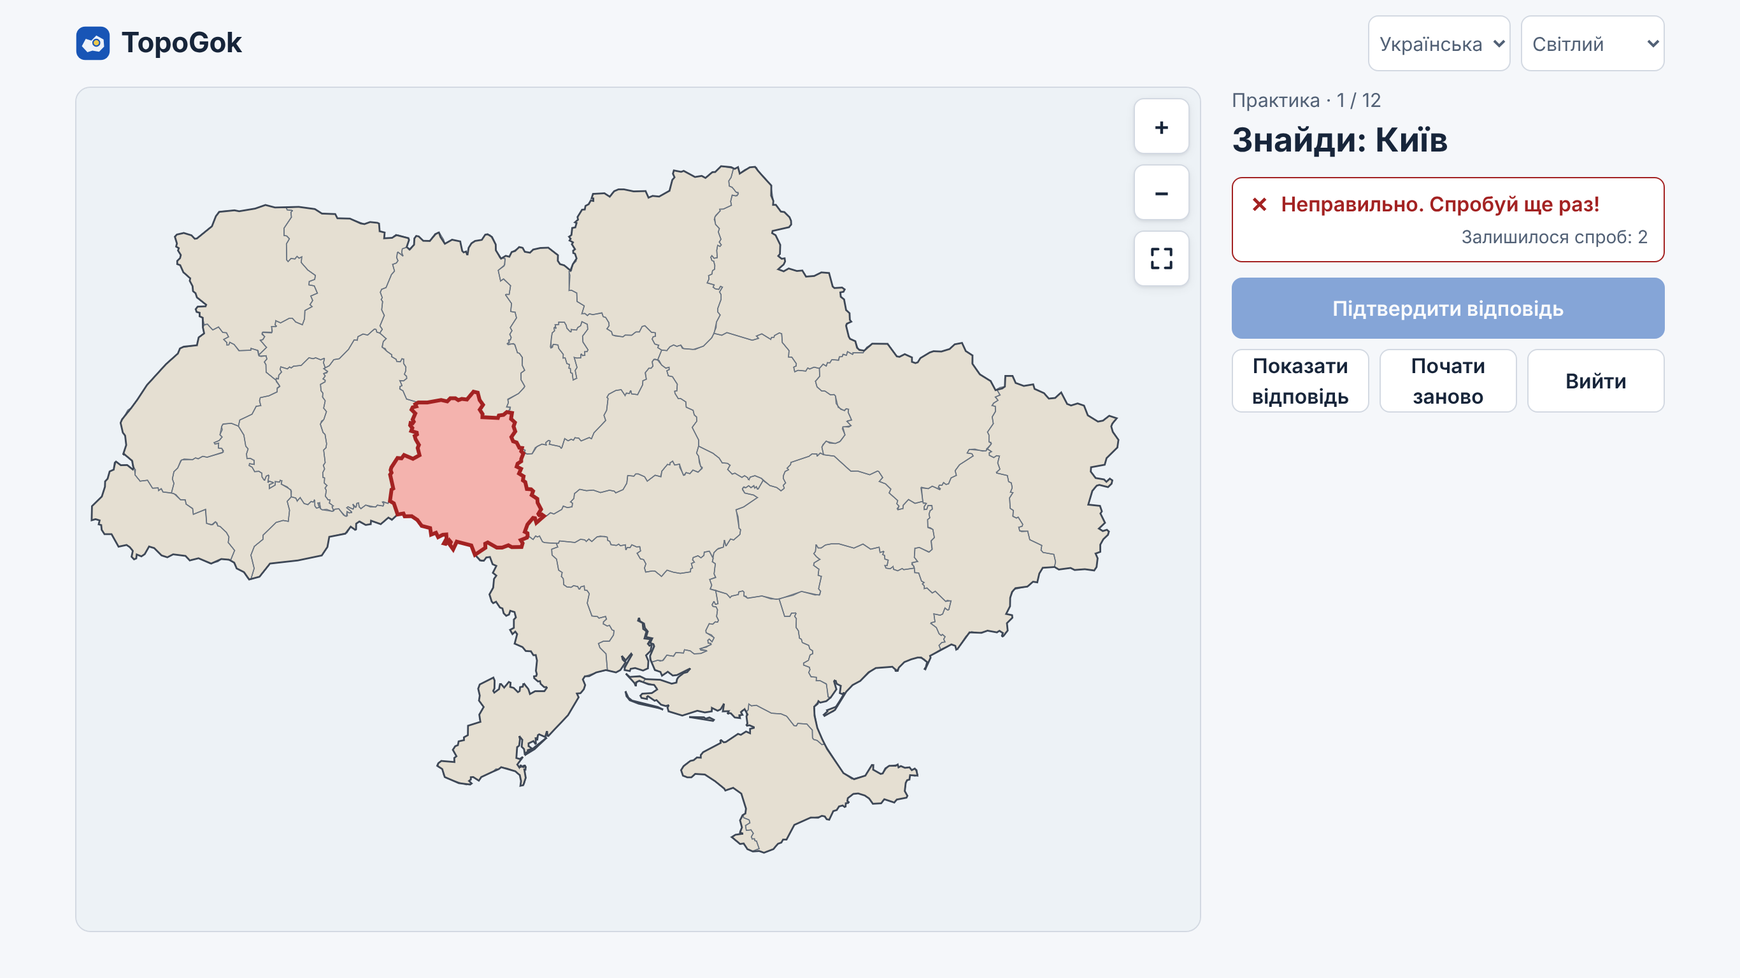
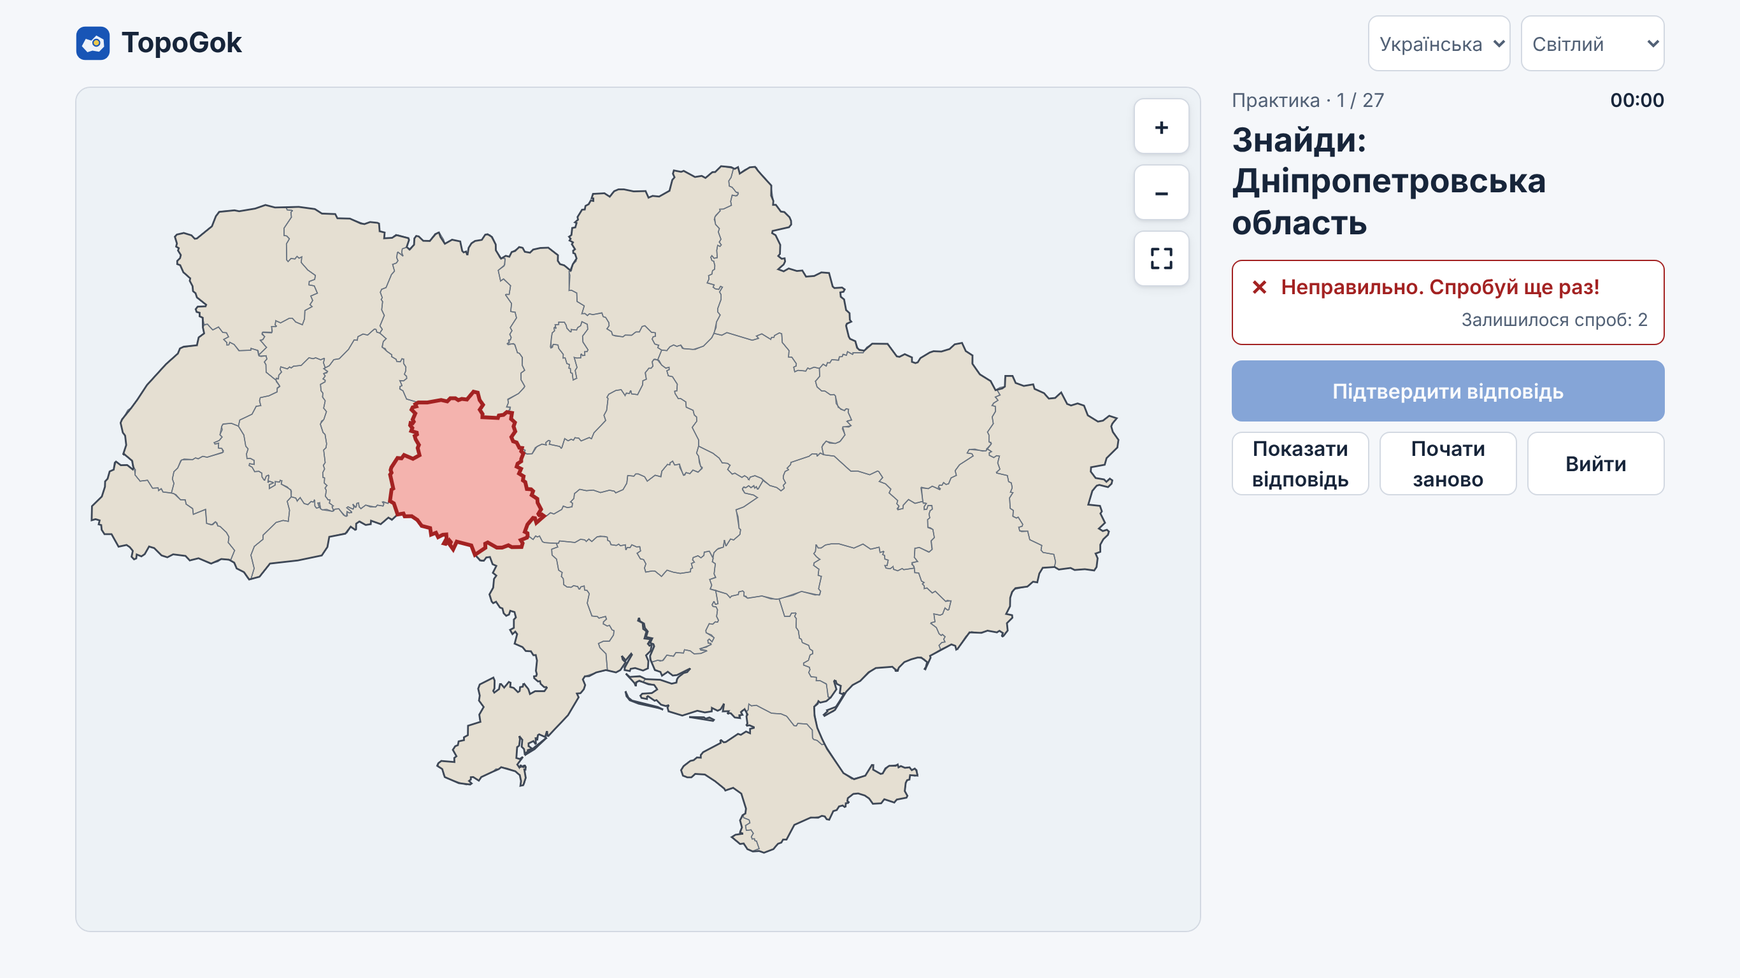
F4.5: practice starts at once; no time limit for assessments
- practice: no setup screen, all allowed features, elapsed time always shown
- assessment setup: question count only, no time limit
- domain and server keep supporting limits for old rounds
- E2E updated (11-unit mixed practice round, no-limit assessment check),
  screenshots refreshed, docs

Claude-Session: https://claude.ai/code/session_01S7DiZfqfFbseDq5vDu4yvB

diff --git a/tests/e2e/game.spec.ts b/tests/e2e/game.spec.ts
@@ -1,8 +1,10 @@
 import { clickNext, confirmBtn, openTopic, currentTargetId, E2E, expect, mapReady, nextBtn, otherId, selectRegion, start, test } from './helpers.ts';
 
 test.describe('practice', () => {
-  test('T02–T05 mixed 5-question round: feedback, hidden answer, reveal, single review, 360/500', async ({ page }) => {
-    await start(page, E2E, 'practice', '5');
+  test('T02–T05 mixed round (11 tectonic units, F4.5: starts at once, elapsed time shown): feedback, hidden answer, reveal, single review, 960/1100', async ({ page }) => {
+    await start(page, E2E, 'practice', 'all', 'tectonics');
+    await expect(page.locator('main')).toContainText('Gyakorlás · 1 / 11');
+    await expect(page.getByRole('timer')).toBeVisible();
     const status = page.getByTestId('status');
     await expect(status).toContainText('Válassz egy területet');
     await expect(status).toContainText('Hátralévő próbálkozás: 3');
@@ -47,6 +49,15 @@ test.describe('practice', () => {
     await expect(nextBtn(page)).toHaveText('Következő');
     await clickNext(page);
 
+    // Q6–Q11 correct first try
+    for (let i = 0; i < 6; i++) {
+      id = await currentTargetId(page);
+      await selectRegion(page, id);
+      await confirmBtn(page).click();
+      await expect(status).toContainText('Helyes!');
+      await clickNext(page);
+    }
+
     // Review: 2 unique tasks, header says so; fail one completely, solve the other
     await expect(page.locator('main')).toContainText('Hibák ismétlése • 1 / 2');
     await expect(page.locator('main')).toContainText('Az eredeti pontszám nem változik.');
@@ -68,23 +79,23 @@ test.describe('practice', () => {
     await clickNext(page);
 
     await expect(page.getByTestId('result')).toBeVisible();
-    await expect(page.getByTestId('correct')).toHaveText('3 / 5');
-    await expect(page.getByTestId('percent')).toHaveText('60%');
-    await expect(page.getByTestId('points')).toHaveText('360 / 500');
+    await expect(page.getByTestId('correct')).toHaveText('9 / 11');
+    await expect(page.getByTestId('percent')).toHaveText('81,8%');
+    await expect(page.getByTestId('points')).toHaveText('960 / 1100');
     await expect(page.locator('main')).not.toContainText('Jegy');
   });
 
   test('double-clicking "confirm" does not skip the feedback', async ({ page }) => {
-    await start(page, E2E, 'practice', '5');
+    await start(page, E2E, 'practice');
     const id = await currentTargetId(page);
     await selectRegion(page, id);
     await confirmBtn(page).dblclick();
     await expect(page.getByTestId('status')).toContainText('Helyes!');
-    await expect(page.locator('main')).toContainText('Gyakorlás · 1 / 5');
+    await expect(page.locator('main')).toContainText('Gyakorlás · 1 / 27');
   });
 
   test('T13 all 27 regions selectable in a round; Kyiv and Sevastopol after zooming in; 2700/2700', async ({ page }) => {
-    await start(page, E2E, 'practice', 'all');
+    await start(page, E2E, 'practice');
     const seen = new Set<string>();
     for (let i = 0; i < 27; i++) {
       const id = await currentTargetId(page);
@@ -142,32 +153,22 @@ test.describe('assessment', () => {
     await expect(page.getByTestId('grade')).toHaveText('12 / 12-es jegy');
   });
 
-  test('T08/T10 5-minute limit with a selected but unconfirmed answer: timeout after background, N stays 5', async ({ page }) => {
-    await page.clock.install();
-    await start(page, E2E, 'assessment', '5', '5 perc');
-    await expect(page.getByRole('timer')).toHaveText(/0[45]:\d\d/);
-    for (let i = 0; i < 2; i++) {
-      const id = await currentTargetId(page);
-      await selectRegion(page, id);
-      await confirmBtn(page).click();
-    }
-    const id = await currentTargetId(page);
-    await selectRegion(page, id); // selected, never confirmed
-    // Simulate the tab being hidden while time passes, then coming back.
-    await page.evaluate(() => { Object.defineProperty(document, 'visibilityState', { value: 'hidden', configurable: true }); document.dispatchEvent(new Event('visibilitychange')); });
-    await page.clock.fastForward('06:00');
-    await page.evaluate(() => { Object.defineProperty(document, 'visibilityState', { value: 'visible', configurable: true }); document.dispatchEvent(new Event('visibilitychange')); });
-    await expect(page.getByTestId('result')).toBeVisible();
-    await expect(page.locator('main')).toContainText('Lejárt az idő.');
-    await expect(page.getByTestId('correct')).toHaveText('2 / 5');
-    await expect(page.getByTestId('duration')).toHaveText('05:00');
-    await expect(page.getByTestId('grade')).toHaveText('5 / 12-es jegy');
+  test('F4.5: the assessment setup offers question counts but no time limit; the round has no countdown', async ({ page }) => {
+    await openTopic(page, E2E);
+    await page.getByRole('button', { name: /^Számonkérés/ }).click();
+    await expect(page.locator('main')).not.toContainText('Időkorlát');
+    await expect(page.locator('fieldset').first().locator('label')).toHaveText(['5', '12', 'Mindegyik (27)']);
+    await page.locator('label', { hasText: /^5$/ }).click();
+    await page.getByRole('button', { name: 'Indítás' }).click();
+    await mapReady(page);
+    await expect(page.locator('main')).toContainText('Számonkérés · 1 / 5');
+    await expect(page.getByRole('timer')).toHaveCount(0);
   });
 });
 
 test.describe('round controls', () => {
   test('T11/T16 restart and exit dialogs; language and theme switch keep the round; reload returns home with nothing stored', async ({ page }) => {
-    await start(page, E2E, 'practice', '12');
+    await start(page, E2E, 'practice');
     const q1 = await currentTargetId(page);
     const wrong = otherId(q1);
     await selectRegion(page, wrong);
@@ -180,7 +181,7 @@ test.describe('round controls', () => {
     await page.getByLabel('Вигляд', { exact: true }).selectOption('dark');
     await expect(page.locator('html')).toHaveAttribute('data-theme', 'dark');
     expect(await currentTargetId(page)).toBe(q1);
-    await expect(page.locator('main')).toContainText('Практика · 1 / 12');
+    await expect(page.locator('main')).toContainText('Практика · 1 / 27');
     await expect(page.getByTestId('status')).toContainText('Залишилося спроб: 2');
 
     // Restart: cancel keeps everything (Escape = safe choice)
@@ -197,7 +198,7 @@ test.describe('round controls', () => {
     await page.getByRole('button', { name: 'Почати заново' }).click();
     await page.getByRole('dialog').getByRole('button', { name: 'Нове коло' }).click();
     await mapReady(page);
-    await expect(page.locator('main')).toContainText('Практика · 1 / 12');
+    await expect(page.locator('main')).toContainText('Практика · 1 / 27');
     await expect(page.getByTestId('status')).toContainText('Залишилося спроб: 3');
 
     // Reload: home, only the preference key in storage
@@ -215,7 +216,7 @@ test.describe('round controls', () => {
     expect(JSON.parse(await page.evaluate(() => localStorage.getItem('topogok.preferences.v1')!))).toEqual({ theme: 'dark', locale: 'uk' });
 
     // Exit with confirmation
-    await start(page, E2E, 'practice', '5');
+    await start(page, E2E, 'practice');
     await page.getByRole('button', { name: 'Вийти' }).click();
     await page.getByRole('dialog').getByRole('button', { name: 'Вийти' }).click();
     await expect(page.locator('#question')).toHaveCount(0);
@@ -223,14 +224,14 @@ test.describe('round controls', () => {
 });
 
 test.describe('tectonics topic', () => {
-  test('practice: only 5/all offered, grey background land is not an answer, all 11 units selectable (1100/1100)', async ({ page }) => {
+  test('assessment offers only 5/all; practice starts at once: grey background land is not an answer, all 11 units selectable (1100/1100)', async ({ page }) => {
     await openTopic(page, E2E, 'tectonics');
     await expect(page.locator('h1')).toHaveText('Ukrajna tektonikai szerkezete');
-    await page.getByRole('button', { name: /^Gyakorlás/ }).click();
+    await page.getByRole('button', { name: /^Számonkérés/ }).click();
     await expect(page.locator('label', { hasText: /^12$/ })).toHaveCount(0);
     await expect(page.locator('label', { hasText: 'Mindegyik (11)' })).toBeVisible();
-    await page.locator('label', { hasText: 'Mindegyik (11)' }).click();
-    await page.getByRole('button', { name: 'Indítás' }).click();
+    await page.getByRole('button', { name: 'Vissza' }).click();
+    await page.getByRole('button', { name: /^Gyakorlás/ }).click();
     await mapReady(page);
     await expect(page.locator('main')).toContainText('A szürke területek nem tartoznak a kérdezett egységekhez.');
 
@@ -263,7 +264,7 @@ test.describe('tectonics topic', () => {
 
   test('assessment: 4/5 → 80%, grade 10, in Ukrainian', async ({ page }) => {
     await page.addInitScript(() => localStorage.setItem('topogok.preferences.v1', JSON.stringify({ locale: 'uk', theme: 'light' })));
-    await start(page, E2E, 'assessment', '5', undefined, 'tectonics');
+    await start(page, E2E, 'assessment', '5', 'tectonics');
     for (let i = 0; i < 5; i++) {
       const id = await currentTargetId(page);
       await selectRegion(page, i === 0 ? otherId(id) : id);
@@ -282,9 +283,6 @@ test.describe('continents topic', () => {
     await openTopic(page, E2E, 'world');
     await expect(page.locator('h1')).toHaveText('Kontinensek topója');
     await page.getByRole('button', { name: /^Gyakorlás/ }).click();
-    await expect(page.locator('label', { hasText: /^12$/ })).toHaveCount(0);
-    await page.locator('label', { hasText: 'Mindegyik (11)' }).click();
-    await page.getByRole('button', { name: 'Indítás' }).click();
     await mapReady(page);
     await expect(page.locator('main')).toContainText('A szürke területek nem tartoznak a kérdezett egységekhez.');
 
@@ -320,7 +318,7 @@ test.describe('continents topic', () => {
 
   test('assessment in Ukrainian: 4/5 → 80%, grade 10', async ({ page }) => {
     await page.addInitScript(() => localStorage.setItem('topogok.preferences.v1', JSON.stringify({ locale: 'uk', theme: 'dark' })));
-    await start(page, E2E, 'assessment', '5', undefined, 'world');
+    await start(page, E2E, 'assessment', '5', 'world');
     for (let i = 0; i < 5; i++) {
       const id = await currentTargetId(page);
       await selectRegion(page, i === 0 ? otherId(id) : id);

diff --git a/src/features/setup/SetupScreen.tsx b/src/features/setup/SetupScreen.tsx
@@ -3,13 +3,13 @@ import { useTopicAccess } from '../../account/topicAccess.ts';
 import { countOptions } from '../../domain/questionCounts.ts';
 import { useSettings } from '../../app/settings.tsx';
 import { Button, ChoiceGroup } from '../../components/ui.tsx';
-import { DEFAULT_COUNT, TIME_LIMITS, validateConfig } from '../../domain/config.ts';
+import { DEFAULT_COUNT, validateConfig } from '../../domain/config.ts';
 import type { TopicEntry } from '../../data/topicRegistry.ts';
-import type { AssessmentConfiguration, GameConfiguration, Mode, PracticeConfiguration, QuestionCount, TimeLimitMinutes } from '../../domain/types.ts';
+import type { AssessmentConfiguration, GameConfiguration, Mode, QuestionCount } from '../../domain/types.ts';
 import type { Topic } from '../../data/validation.ts';
 import s from '../../app/app.module.css';
 
-export function SetupScreen({ mode, topic, entry, initial, onStart, onBack }: {
+export function SetupScreen({ topic, entry, initial, onStart, onBack }: {
   mode: Mode; topic: Topic; entry: TopicEntry; initial: GameConfiguration | undefined; onStart: (c: GameConfiguration) => void; onBack: () => void;
 }) {
   const { t, locale } = useSettings();
@@ -18,20 +18,17 @@ export function SetupScreen({ mode, topic, entry, initial, onStart, onBack }: {
   const counts = countOptions(entry.counts, total);
   const pick = (c: QuestionCount | undefined): QuestionCount => (c !== undefined && counts.includes(c) ? c : counts.includes(DEFAULT_COUNT) ? DEFAULT_COUNT : 'all');
   const [count, setCount] = useState<QuestionCount>(() => pick(initial?.count));
-  const [showElapsed, setShowElapsed] = useState(initial?.mode === 'practice' ? initial.showElapsed : false);
-  const [limit, setLimit] = useState<TimeLimitMinutes>(initial?.mode === 'assessment' ? initial.timeLimitMinutes : null);
 
   const start = () => {
-    const raw: PracticeConfiguration | AssessmentConfiguration = mode === 'practice'
-      ? { mode, topicId: topic.manifest.id, count, showElapsed }
-      : { mode, topicId: topic.manifest.id, count, timeLimitMinutes: limit };
+    // F4.5: only the assessment has a setup screen, and it has no time limit.
+    const raw: AssessmentConfiguration = { mode: 'assessment', topicId: topic.manifest.id, count, timeLimitMinutes: null };
     const valid = validateConfig(raw);
     if (valid) onStart(valid);
   };
 
   return (
     <div className={s.page}>
-      <h1>{mode === 'practice' ? t('setup.titlePractice') : t('setup.titleAssessment')}</h1>
+      <h1>{t('setup.titleAssessment')}</h1>
       <form className={s.form} onSubmit={(e) => { e.preventDefault(); start(); }}>
         <div>
           <p className={s.topicLine}>{t('setup.topic')}</p>
@@ -40,18 +37,9 @@ export function SetupScreen({ mode, topic, entry, initial, onStart, onBack }: {
         </div>
         <ChoiceGroup legend={t('setup.count')} name="count" value={count} onChange={setCount}
           options={counts.map((c) => ({ value: c, label: c === 'all' ? t('setup.all', { count: total }) : String(c) }))} />
-        {mode === 'practice' ? (
-          <label className={s.toggle}>
-            <input type="checkbox" checked={showElapsed} onChange={(e) => setShowElapsed(e.target.checked)} />
-            <span>{t('setup.showElapsed')}</span>
-          </label>
-        ) : (
-          <ChoiceGroup legend={t('setup.timeLimit')} name="limit" value={limit} onChange={setLimit}
-            options={TIME_LIMITS.map((m) => ({ value: m, label: m === null ? t('setup.noLimit') : t('setup.minutes', { count: m }) }))} />
-        )}
         <section>
           <h2 className="visually-hidden">{t('setup.rulesTitle')}</h2>
-          <p className={s.rules}>{mode === 'practice' ? t('setup.rulesPractice') : t('setup.rulesAssessment')}</p>
+          <p className={s.rules}>{t('setup.rulesAssessment')}</p>
         </section>
         <div className={s.actions}>
           <Button type="submit" variant="primary">{t('setup.start')}</Button>

diff --git a/tests/e2e/visual.spec.ts b/tests/e2e/visual.spec.ts
@@ -59,7 +59,7 @@ for (const locale of ['hu', 'uk'] as const) {
       await shot(page, `${tag}-01-home`);
 
       // practice: wrong answer feedback, then the right answer
-      await start(page, E2E, 'practice', '5');
+      await start(page, E2E, 'practice');
       await dismissBanner(page);
       const id = await currentTargetId(page);
       await selectRegion(page, otherId(id));
@@ -77,7 +77,7 @@ for (const locale of ['hu', 'uk'] as const) {
       await shot(page, `${tag}-04-kyiv-zoomed`);
 
       // assessment with timer, a neutral selection, then results
-      await start(page, E2E, 'assessment', '5', locale === 'hu' ? '10 perc' : '10 хв');
+      await start(page, E2E, 'assessment', '5');
       const a = await currentTargetId(page);
       await selectRegion(page, a);
       await checkLayout(page);
@@ -108,7 +108,7 @@ for (const sz of sizes) {
     await page.goto(E2E);
     await checkLayout(page);
     await shot(page, `${sz.name}-01-home`);
-    await start(page, E2E, 'practice', '12');
+    await start(page, E2E, 'practice');
     await dismissBanner(page);
     await controlsClear(page);
     const id = await currentTargetId(page);
@@ -141,7 +141,7 @@ test('explore + help screenshots; no About page', async ({ page }) => {
 test('tectonics screenshots hu-light and uk-dark', async ({ page }) => {
   for (const [locale, theme] of [['hu', 'light'], ['uk', 'dark']] as const) {
     await prefs(page, locale, theme);
-    await start(page, E2E, 'practice', '5', undefined, 'tectonics');
+    await start(page, E2E, 'practice', 'all', 'tectonics');
     await dismissBanner(page);
     const id = await currentTargetId(page);
     await selectRegion(page, otherId(id));
@@ -161,7 +161,7 @@ test('tectonics screenshots hu-light and uk-dark', async ({ page }) => {
 test('continents screenshots: desktop hu-light practice + uk-dark explore, phone explore', async ({ page }) => {
   await page.setViewportSize({ width: 1366, height: 768 });
   await prefs(page, 'hu', 'light');
-  await start(page, E2E, 'practice', '5', undefined, 'world');
+  await start(page, E2E, 'practice', 'all', 'world');
   await dismissBanner(page);
   const id = await currentTargetId(page);
   await selectRegion(page, otherId(id));

diff --git a/tests/e2e/helpers.ts b/tests/e2e/helpers.ts
@@ -107,12 +107,14 @@ export async function selectRegion(page: Page, id: string) {
   await clickRegion(page, id);
 }
 
-export async function start(page: Page, base: string, mode: 'practice' | 'assessment', count: '5' | '12' | 'all', limit?: string, topic: TopicKey = 'admin') {
+/** Practice starts at once with every feature (F4.5); only the assessment has a setup screen (count, no time limit). */
+export async function start(page: Page, base: string, mode: 'practice' | 'assessment', count: '5' | '12' | 'all' = 'all', topic: TopicKey = 'admin') {
   await openTopic(page, base, topic);
   await page.locator('button', { hasText: mode === 'practice' ? /^Gyakorlás|^Практика/ : /^Számonkérés|^Перевірка знань/ }).first().click();
-  await page.locator('label', { hasText: count === 'all' ? /Mindegyik|Усі/ : new RegExp(`^${count}$`) }).click();
-  if (limit) await page.locator('label', { hasText: new RegExp(`^${limit}$`) }).click();
-  await page.getByRole('button', { name: /Indítás|Почати/ }).click();
+  if (mode === 'assessment') {
+    await page.locator('label', { hasText: count === 'all' ? /Mindegyik|Усі/ : new RegExp(`^${count}$`) }).click();
+    await page.getByRole('button', { name: /Indítás|Почати/ }).click();
+  }
   await mapReady(page);
   await expect(page.locator('#question')).toContainText(/Keresd meg|Знайди/);
 }

diff --git a/src/app/App.tsx b/src/app/App.tsx
@@ -107,7 +107,10 @@ export function App() {
         content = <HomeScreen onTopic={(topicId) => setView({ name: 'topic', topicId })} onHelp={() => setView({ name: 'help' })} onLogin={() => setView({ name: 'login' })} onManage={() => setView({ name: 'manage' })} />;
         break;
       case 'topic':
-        content = <TopicScreen topic={topicEntry(view.topicId)} onMode={(mode) => setView({ name: 'setup', topicId: view.topicId, mode })} onExplore={() => setView({ name: 'explore', topicId: view.topicId })} onBack={() => setView({ name: 'home' })} />;
+        content = <TopicScreen topic={topicEntry(view.topicId)} onMode={(mode) => (mode === 'practice'
+          // F4.5: practice starts at once with every allowed feature and the elapsed time shown.
+          ? startGame(view.topicId, { mode: 'practice', topicId: view.topicId, count: 'all', showElapsed: true })
+          : setView({ name: 'setup', topicId: view.topicId, mode }))} onExplore={() => setView({ name: 'explore', topicId: view.topicId })} onBack={() => setView({ name: 'home' })} />;
         break;
       case 'setup':
         content = <SetupScreen key={`${view.topicId}:${view.mode}`} mode={view.mode} topic={topic!} entry={topicEntry(view.topicId)} initial={lastSetup[`${view.topicId}:${view.mode}`]}

diff --git a/tests/e2e/results.spec.ts b/tests/e2e/results.spec.ts
@@ -38,15 +38,11 @@ test('student round is saved; offline finish waits and is sent once back online;
   await context.setOffline(false);
   await expect(save).toHaveAttribute('data-status', 'saved', { timeout: 30_000 });
 
-  // No connection at the start: the round can still be played, but it is never shown as saved.
-  await page.goto(BASE);
-  await page.locator('[data-topic="ukraine-administration"]').click();
-  await page.locator('button', { hasText: /^Gyakorlás/ }).first().click();
-  await page.locator('label', { hasText: /^5$/ }).click();
-  await context.setOffline(true);
-  await page.getByRole('button', { name: 'Indítás' }).click();
+  // The start request fails: the round can still be played, but it is never shown as saved.
+  await page.route('**/api/attempts', (r) => r.abort());
+  await start(page, BASE, 'practice');
   await expect(page.getByTestId('round-unsaved')).toContainText('nem lesz mentve', { timeout: 30_000 });
-  await context.setOffline(false);
+  await page.unroute('**/api/attempts');
   await page.getByRole('button', { name: 'Kilépés', exact: true }).click();
   await page.getByRole('dialog').getByRole('button', { name: 'Kilépés' }).click();
 });

diff --git a/docs/project/tasks/0003_ONLINE_PLATFORM/phases/F45_SIMPLE_START.md b/docs/project/tasks/0003_ONLINE_PLATFORM/phases/F45_SIMPLE_START.md
@@ -1,0 +1,27 @@
+# F4.5 – Egyszerűbb indítás
+
+Állapot: **megvalósítva, a `staging` ágban** (2026-11-13). Tulajdonosi kérés és döntések: [DECISIONS.md](../DECISIONS.md), 2026-11-13.
+
+## Változás
+
+- **Gyakorlás:** nincs beállítóképernyő.
+  - A téma oldalán a „Gyakorlás” gombra kattintva azonnal megnyílik a térkép az **összes kérdezhető elemmel**. Vendégnél ez a teljes téma, bejelentkezett diáknál a tanára által engedélyezett elemek (F4).
+  - Az **eltelt idő mindig látszik**, és a kör végén mentődik (F3).
+  - A gyakorló pontozás változatlan.
+- **Számonkérés:** a beállítóképernyőn csak a kérdésszám maradt (5 / 12 / Mindegyik, az F4 szerint a kérdezhető elemszámhoz igazítva). **Időkorlát-választó nincs**, alapból nincs korlát, és nincs visszaszámláló.
+- A `src/domain` és a szerver továbbra is ismeri az időkorlátot. Így a régi, időkorlátos körök a tanári panelen értelmezhetők maradnak, és egy frissítés előtti kliens köre sem lesz érvénytelen. Új időkorlátos kör a felületről nem indítható.
+
+## Hatás a többi fázisra
+
+- F5: a toplistán csak az időkorlát nélküli számonkérés vehet részt. Ez mostantól minden új számonkérésre teljesül.
+- A tanári „Legjobb (teljes kör)” mező a gyakorlásban mindig teljes kört mutat, mert a gyakorlás mindig az összes kérdezhető elemmel megy.
+
+## Tesztek
+
+E2E (`tests/e2e/game.spec.ts`):
+- a gyakorlás azonnal indul, látszik az óra;
+- 11 elemes vegyes kör: 960/1100, 9/11, 81,8%;
+- a számonkérésnél nincs időkorlát és nincs visszaszámláló;
+- a tektonika és a kontinensek számonkérésnél csak 5 és Mindegyik.
+
+Az időkorlát lejáratát továbbra is unit- és API-tesztek fedik (domain, F3 visszajátszás).
